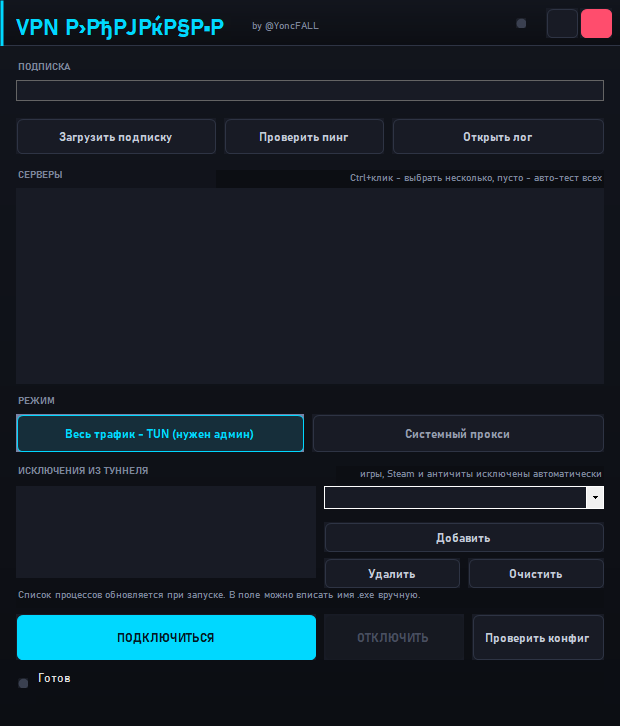
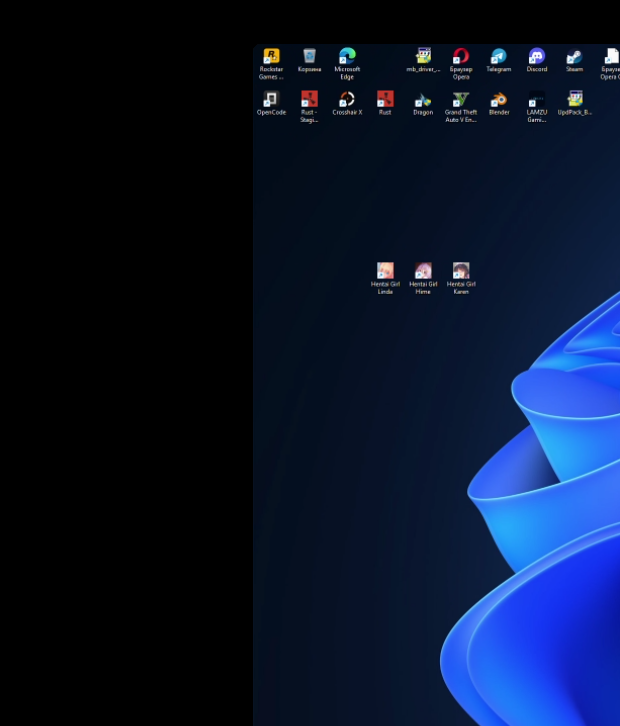
Скриншот: шапка с правильной кириллицей
На снимке был текст 'VPN Р›РђРЈРќР§Р•Р' - theme.ps1 в рабочей копии
читался как ANSI. Снимок перезалит с исправленной версии.

diff --git a/README.md b/README.md
@@ -25,16 +25,25 @@
 
 - Windows 10 1809 или новее (x64)
 - PowerShell 5.1 (входит в состав Windows)
-- [sing-box](https://github.com/SagerNet/sing-box/releases) — отдельный файл, ставится установщиком
+- [sing-box](https://github.com/SagerNet/sing-box) — входит в архив релиза, ставится автоматически
 
 ## Установка
 
-1. Скачай `sing-box.exe` со страницы релизов sing-box (под Windows x64)
-2. Положи его в папку `bin\` рядом с этим репозиторием
-3. Запусти `install.bat`
-4. Ярлык появится на рабочем столе и в меню «Пуск»
+Проще всего — скачать готовый архив из раздела
+[Releases](https://github.com/yoncfall-tech/VPN-LAUNCHER/releases) и запустить
+в нём `install.bat`. `sing-box.exe` уже внутри.
 
-При первом запуске вставь свою ссылку-подписку и нажми **«Загрузить подписку»**.
+Если собираешь из исходников клонированием:
+
+1. Скачай `sing-box.exe` для Windows x64 со страницы
+   [релизов sing-box](https://github.com/SagerNet/sing-box/releases)
+2. Положи его в папку `bin\` рядом с исходниками
+3. Запусти `install.bat`
+
+Ярлык появится на рабочем столе и в меню «Пуск».
+
+При первом запуске вставь **свою** ссылку-подписку и нажми **«Загрузить подписку»**.
+Подписок в сборке нет — клиент работает с тем, что введёшь ты.
 
 ## Как пользоваться
 
